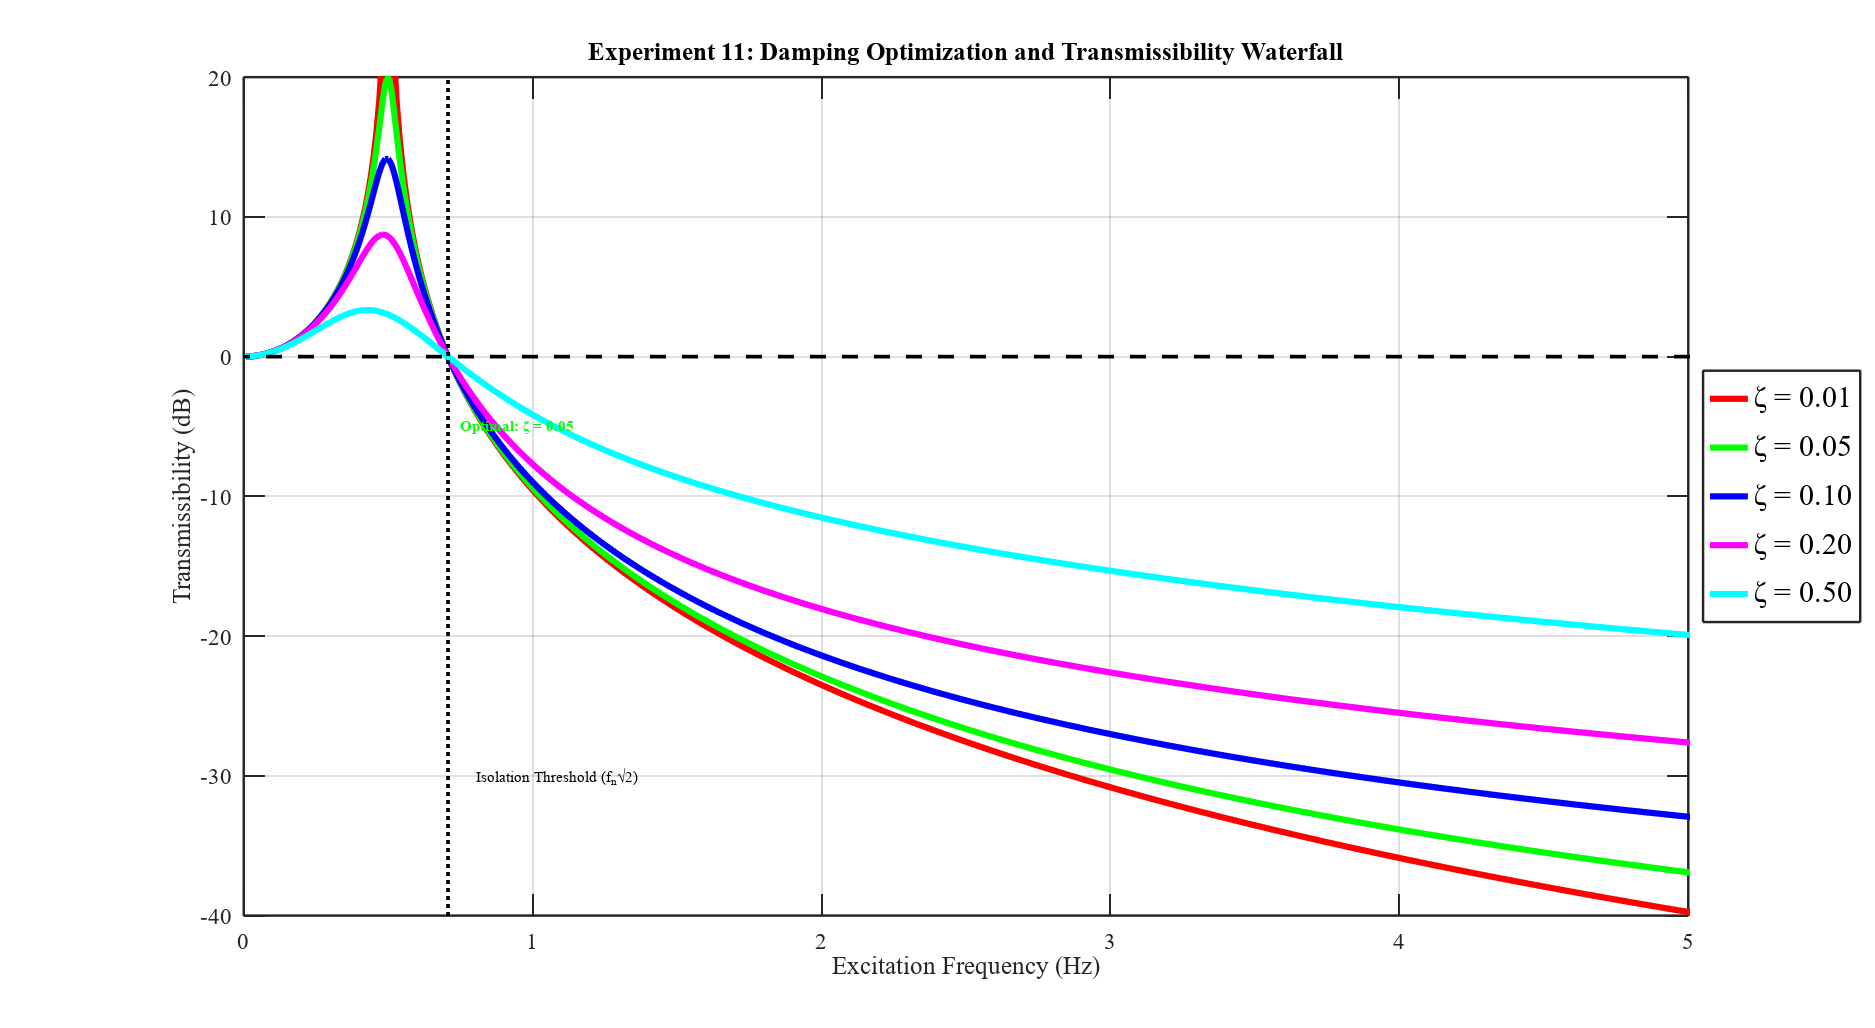
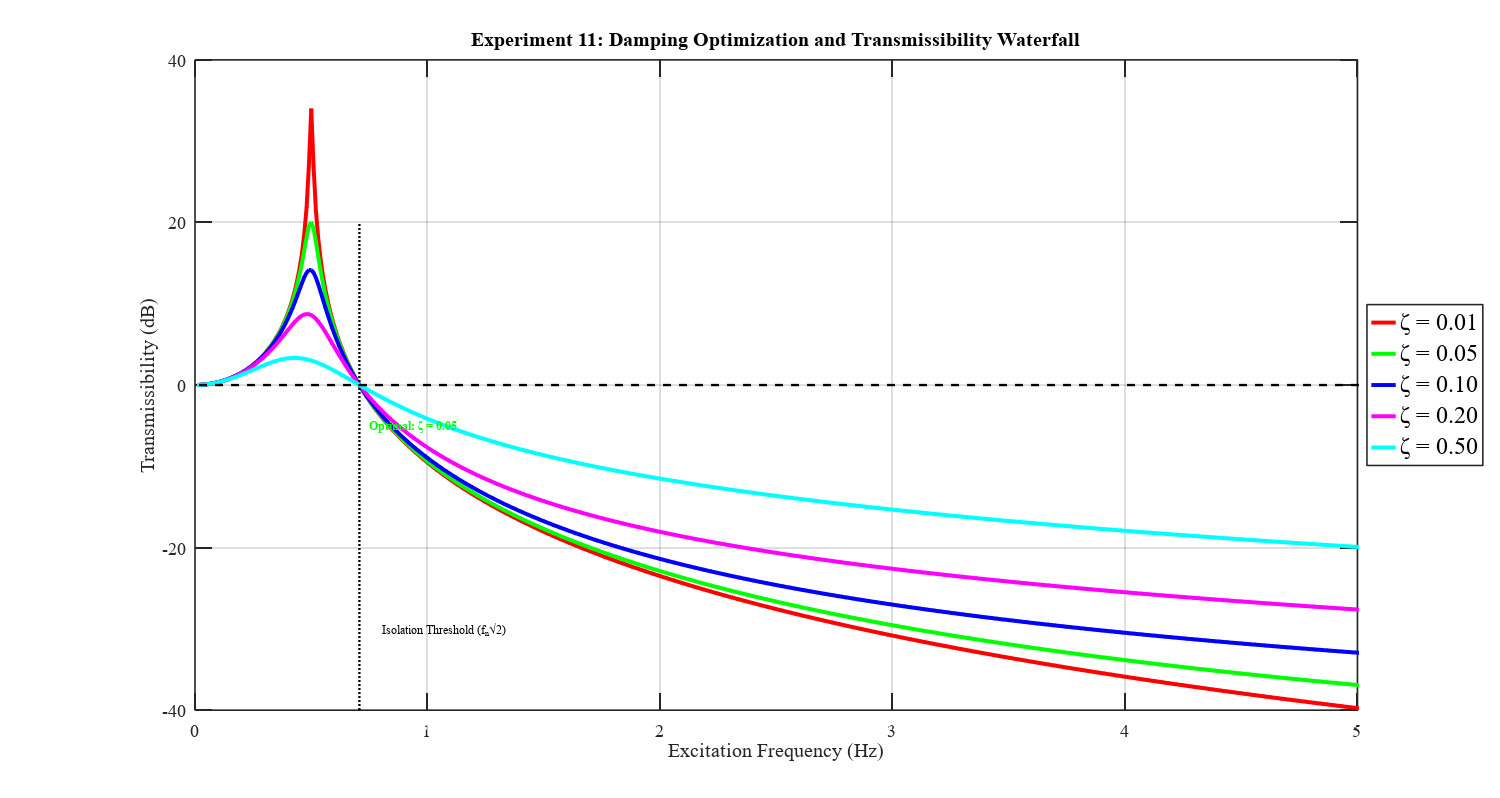
Fix peak clipping in Exp 5 and Exp 11 by expanding y-axis limits

diff --git a/qzs_experiment11_damping.m b/qzs_experiment11_damping.m
@@ -41,7 +41,7 @@ xlabel('Excitation Frequency (Hz)', 'Interpreter', 'tex');
 ylabel('Transmissibility (dB)', 'Interpreter', 'tex');
 legend('Location', 'eastoutside');
 xlim([0, 5]);
-ylim([-40, 20]);
+ylim([-40, 40]);
 
 % Optimal damping annotation
 text(0.75, -5, 'Optimal: \zeta = 0.05', 'Color', 'g', 'FontSize', 12, ...

diff --git a/qzs_experiment5_seismic.m b/qzs_experiment5_seismic.m
@@ -69,7 +69,7 @@ title(['Experiment 5: IS 1893 Seismic Response (Zone III, Medium Soil Type II)',
 xlabel('Frequency (Hz)', 'Interpreter', 'tex');
 ylabel('Absolute Acceleration (g)', 'Interpreter', 'tex');
 legend('Location', 'eastoutside');
-axis([1, 33, 0, 2.5]); % Forced at end to prevent clipping
+axis([1, 33, 0, 5.0]); % Forced at end to prevent clipping
 
 % Save Result
 print_fig('results/qzs_exp5_seismic.png');